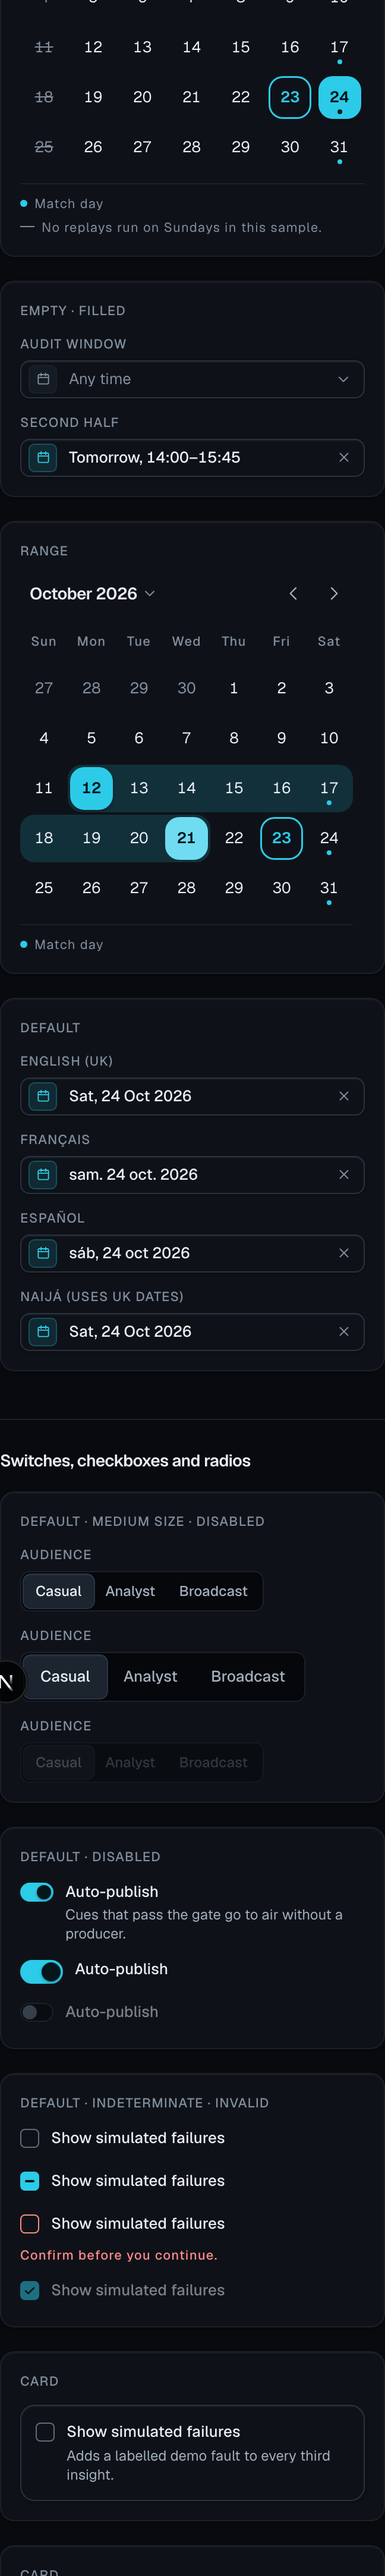
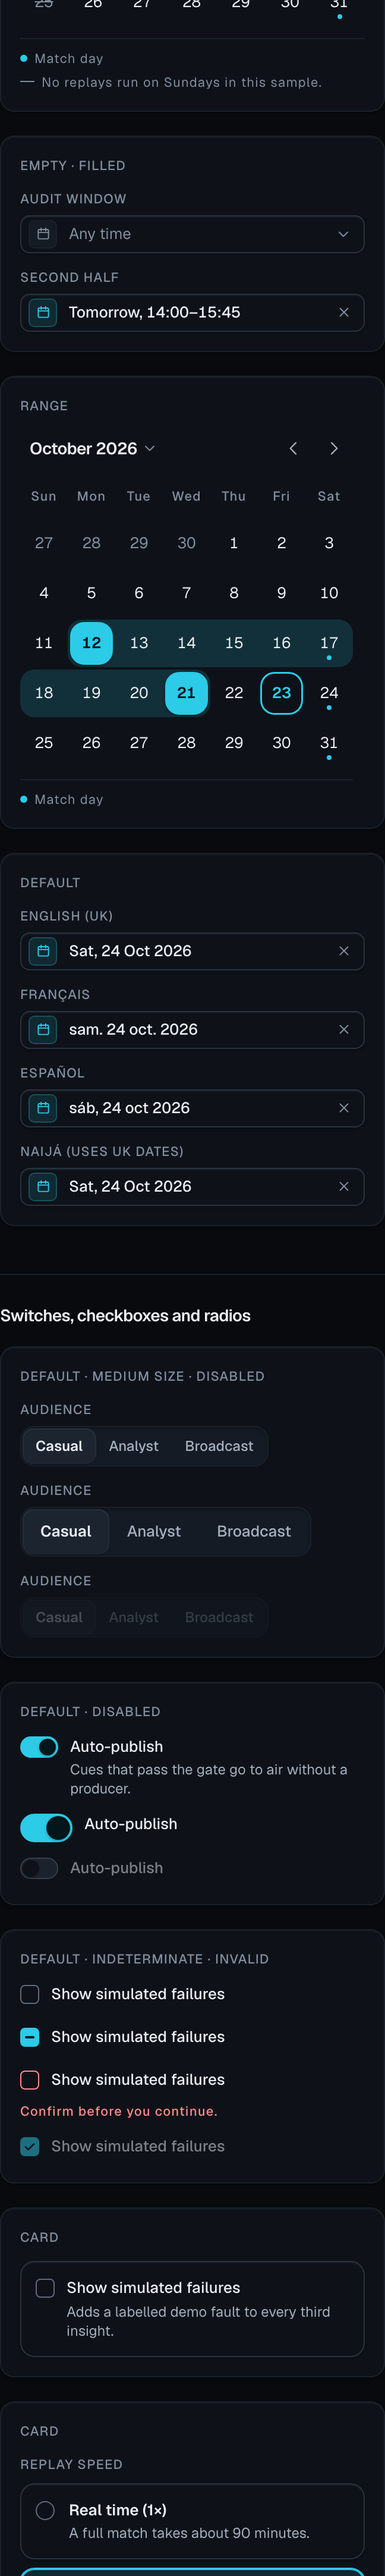
docs: log the control redesign with production-build screenshots

diff --git a/docs/implementation-log.md b/docs/implementation-log.md
@@ -2,6 +2,16 @@
 
 Newest entries first. Each entry records what was delivered, the evidence, and what remains. Status labels: **Done**, **Partial**, **Blocked**.
 
+## 2026-10-23 — MQ-050 (2/2): One visual system for the remaining controls
+
+- **Shared tokens (`control-styles.ts`, `button-styles.ts`, `global.css`):** one focus ring (2 px accent, 2 px offset), a typing halo (accent border plus soft ring), an invalid ring, a disabled look that dims colour instead of fading the whole control, and overlays that scale and fade from their trigger in 120 ms (`--trigger-anchor-point`), clamped by reduced motion.
+- **Select:** an icon well for the chosen option, its label, then its description in a quieter tone; an open state with the halo. **Combobox:** a search field with an icon that turns accent on focus, a styled empty state ("No matches") and a loading state. **Lists and menus:** hover and keyboard highlight are neutral, the keyboard adds an inset accent ring, and the selected row is tinted with a check mark. Groups have dividers. Menu shortcuts are key caps, and danger items are tinted.
+- **Text fields:** empty fields read as wells, and focused or filled fields lift to the surface colour. **Buttons:** an inner highlight on primary, pressed states, and 44 px targets on touch for `sm` and `md`. **Switch:** a larger track, a white thumb, and a squeeze on press. **Checkbox:** a hover halo and an animated check. **Radio cards:** a hover lift and a filled dot. **Segmented control:** an inset track, with a raised and bold selected segment.
+- **Toasts:** a tone rail and a tinted icon well, so the text stays ink. **File upload:** a premium drop zone (gradient wash, icon tile that lifts on hover and rises on drag-over, solid accent border and ring while a file is over it). Rows have status wells, a thicker progress bar and a check on completion.
+- Gallery: added empty and described text fields and a textarea placeholder. Screenshots, from one production build (`:4378`), are in `docs/screenshots/design-system/redesign/`.
+
+Verification: CI (owner directive). Locally: format, `nx lint web`, `nx typecheck web` and the `components/ui` specs.
+
 ## 2026-10-23 — MQ-050 (1/2): Date pickers and calendars redesigned
 
 - **Closed state:** `DatePicker`, `DateTimePicker` and `DateRangePicker` are button-style triggers with a calendar icon well and a readable summary ("Sat, 24 Oct 2026", "Sat 24 Oct, 15:00", "Today, 14:00–15:30", "Last hour", "Any time"), plus a × clear button. No segment masks or seconds are shown; `granularity="second"` now picks to the minute.
